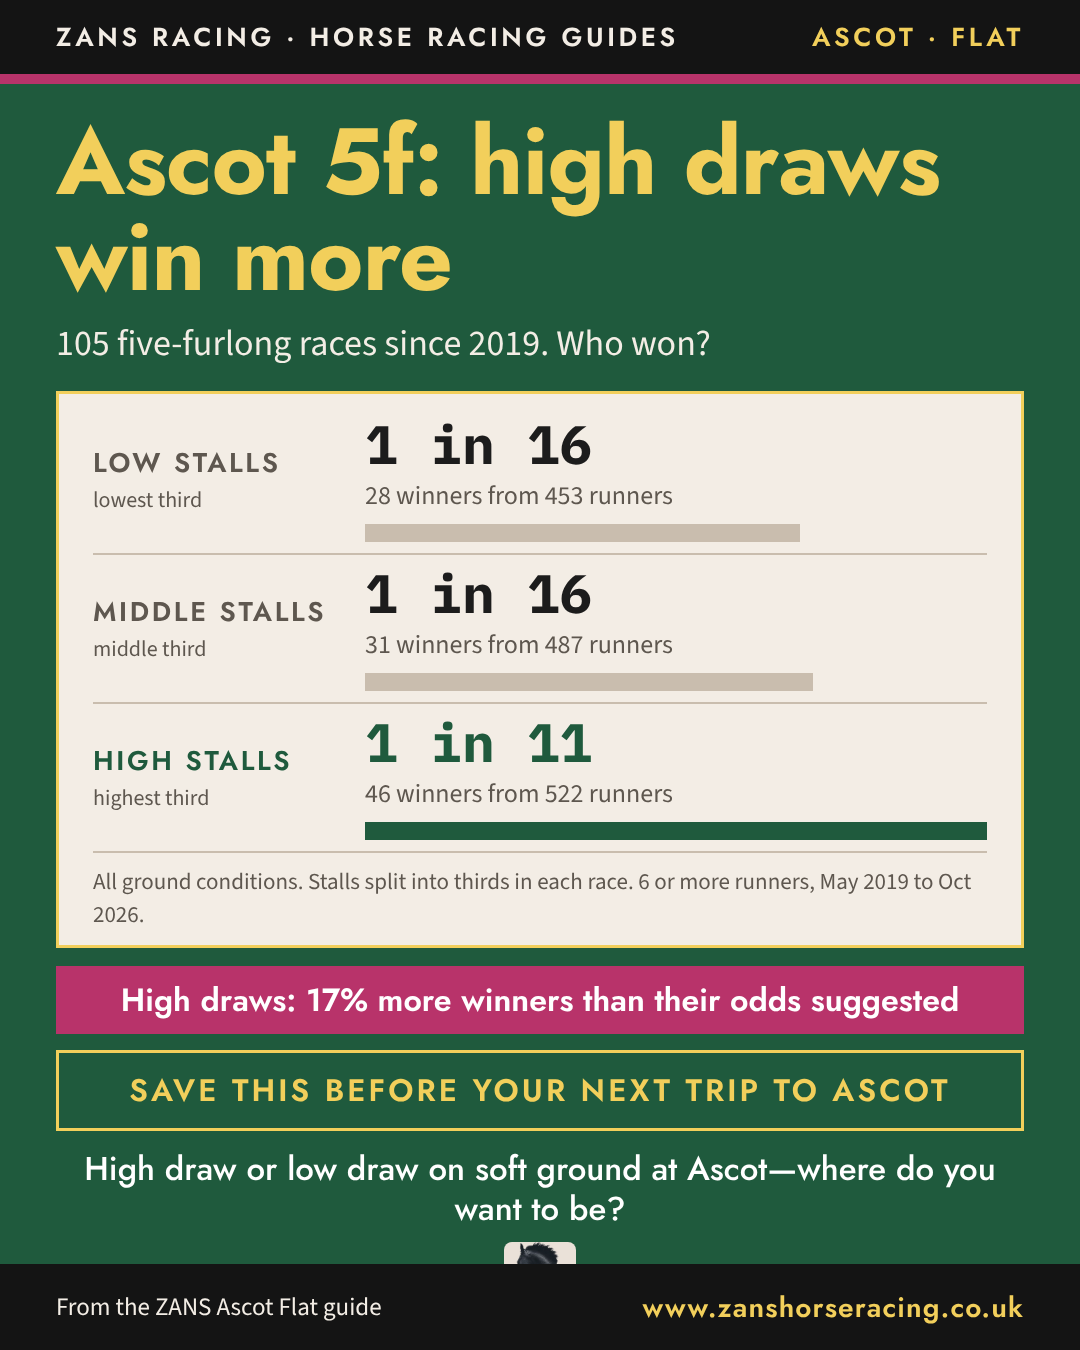
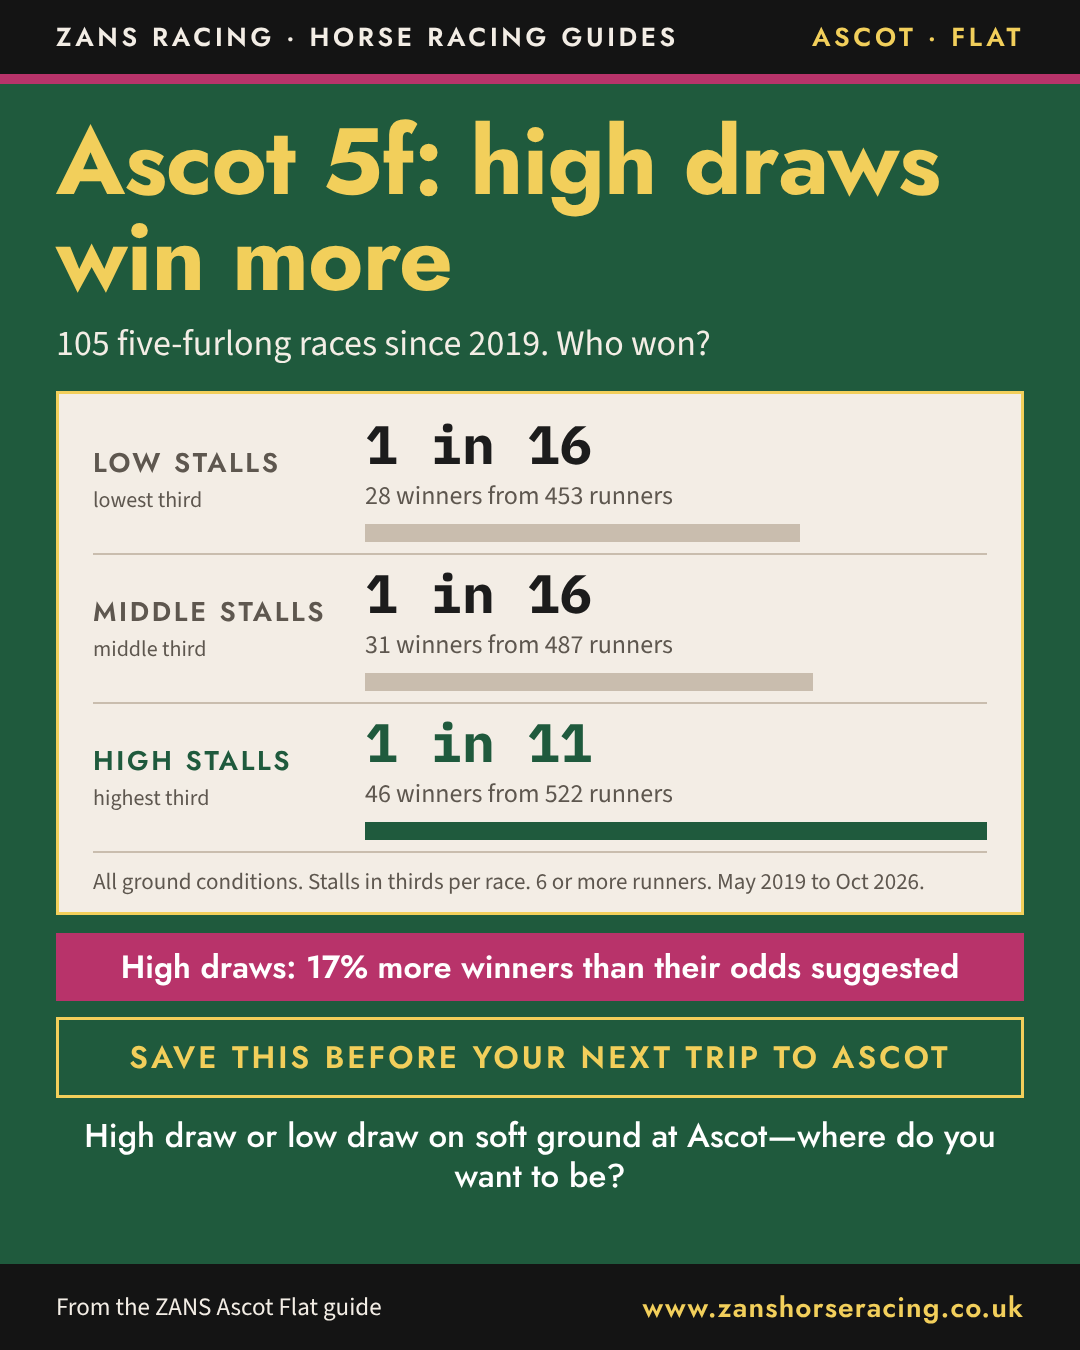
Dry run: tidy post 1 layout after phone-size check
Claude-Session: https://claude.ai/code/session_012o9aG5DgvmXWZHsMc4KE4d

Changed region(s): [[0.0306, 0.6222, 0.9472, 0.9333]]

diff --git a/dry-run/2026-11-17/captions.md b/dry-run/2026-11-17/captions.md
@@ -77,5 +77,5 @@ Link in bio 👉 www.zanshorseracing.co.uk
 
 ## Independent check (17 Nov)
 - All Ascot figures confirmed against the Knowledge Base.
-- Fixed: caption 1 wording ("1 in 11" is per runner, now says so); on-image question now matches the caption; "all ground conditions" added to the sheet; logo added to post 1; mug question re-wrapped.
+- Fixed: caption 1 wording ("1 in 11" is per runner, now says so); on-image question now matches the caption; "all ground conditions" added to the sheet; mug question re-wrapped.
 - Open, for Alex: (a) the tree photo on the website bauble designer has a faint beige mark beside the cord and the hole, so it shows in post 2; it needs fixing in the designer itself. (b) Post 3 shows the designer's mug render on a plain panel; rule 5.3 prefers a real scene for social. (c) Post 2's website line still mentions mugs while mug posts are paused.
